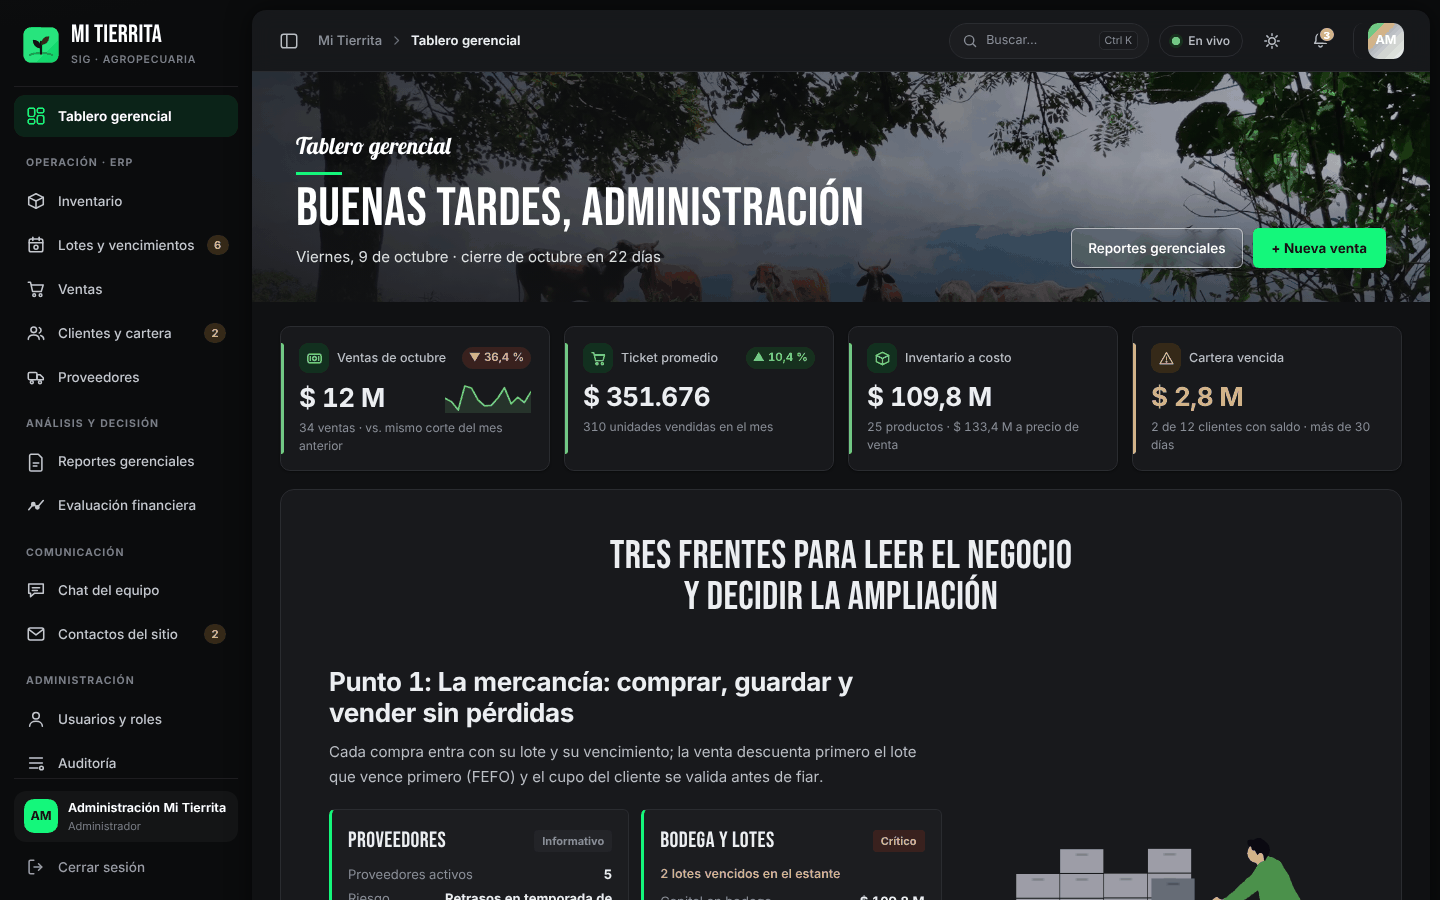
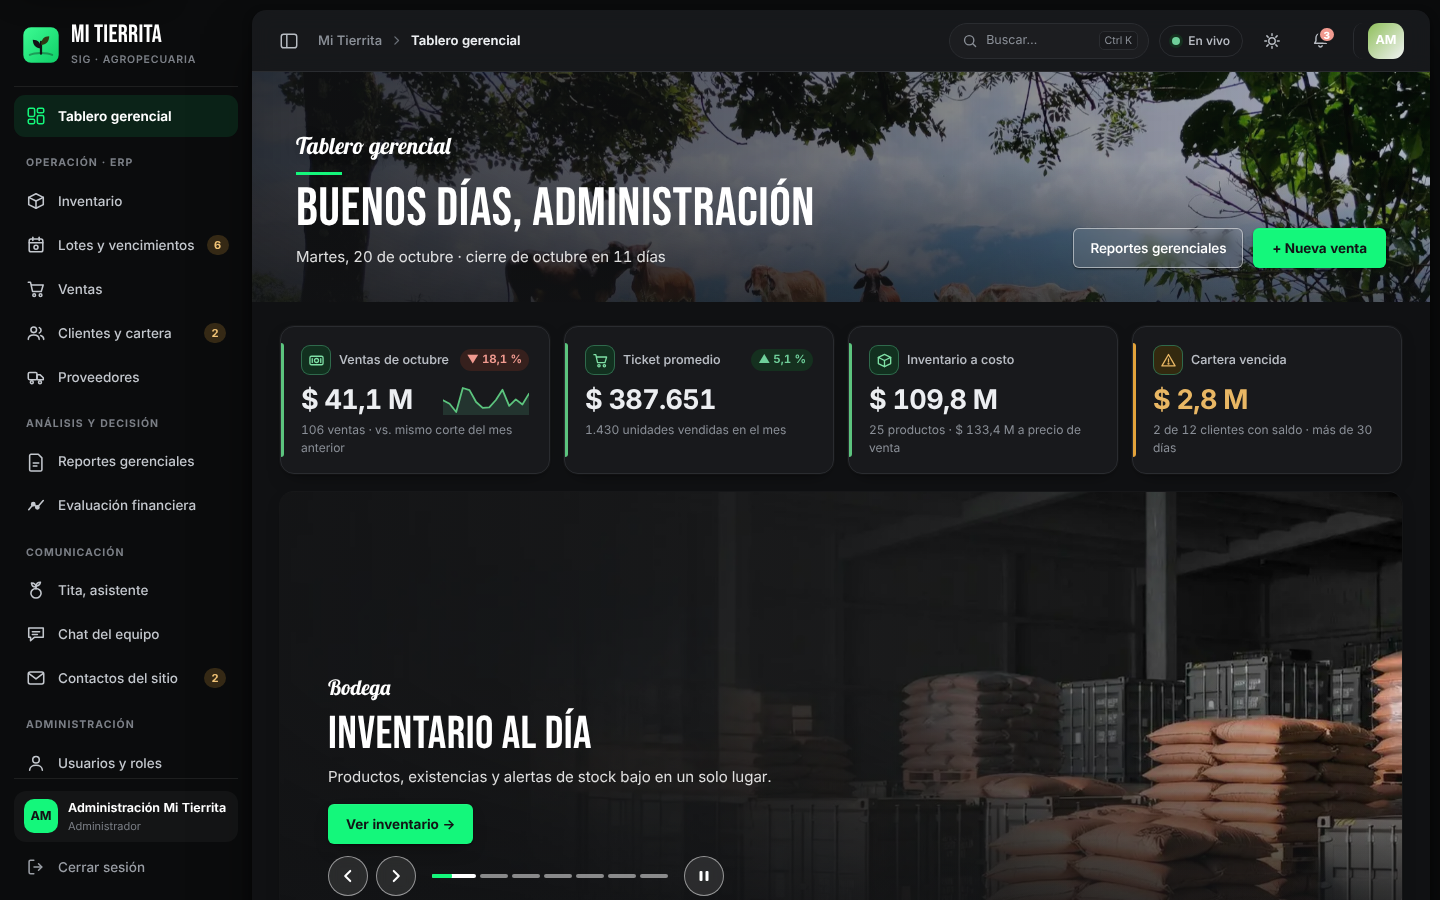
docs: README, manual, CLAUDE.md y capturas regenerados con la v4.5

diff --git a/docs/MANUAL-USUARIO.md b/docs/MANUAL-USUARIO.md
@@ -1,15 +1,19 @@
 # Manual de usuario · Mi Tierrita SIG (guía rápida)
 
-> Versión completa por rol, con más capturas: `entregables/Compartidos/Manual_de_usuario_MiTierrita.pdf` en la carpeta
-> del proyecto. Las cuentas las entrega el administrador; la pantalla de ingreso ya no muestra atajos de demostración.
+> Guía rápida de la versión **v4.5** (capturas del 20/10/2026, con datos de demostración simulados). La versión completa
+> por rol está en Figma (página 04, manuales por rol en escritorio y móvil). Las cuentas las entrega el administrador;
+> la pantalla de ingreso no muestra atajos de demostración.
 
 ## 1. La página pública
 
-Quien abre el sitio sin sesión ve la página de la tienda: portada, ¿Qué es?, tres frentes, catálogo, quiénes somos,
-contacto y pie con boletín. El formulario de **Contacto** llega al instante a la campana del administrador
-(máximo 5 mensajes por hora desde la misma conexión). **Ingresar al sistema** lleva al inicio de sesión.
+Quien abre el sitio sin sesión ve la página de la tienda. Su barra tiene **Catálogo**, **El sistema**, **Tita**,
+**Visítenos**, **Proyecto** y **Contacto**, y el botón **Ingresar al sistema** lleva al inicio de sesión. En **Contacto**
+escriba su nombre, un **teléfono o WhatsApp** o un correo (basta uno), el tema y el mensaje: llega al instante a la
+campana del administrador (máximo 5 mensajes por hora desde la misma conexión).
 
 ![Página pública](capturas/00-pagina-inicio.png)
+
+![Catálogo](capturas/00b-pagina-catalogo.png)
 
 ![Contacto](capturas/25-pagina-contacto.png)
 
@@ -22,12 +26,14 @@ Escriba su usuario y contraseña y pulse **Entrar al sistema**. Después de 10 i
 
 ## 3. La pantalla principal
 
-- **Menú lateral:** *Operación · ERP*, *Análisis y decisión*, *Comunicación* (chat y contactos del sitio) y
-  *Administración*. Solo aparece lo que su rol puede usar; los números son pendientes.
-- **Barra superior:** **Buscar… Ctrl K**, el estado de conexión, tema claro/oscuro, la **campana** y sus iniciales
+- **Menú lateral:** *Operación · ERP*, *Análisis y decisión*, *Comunicación* (**Tita**, chat del equipo y contactos del
+  sitio) y *Administración*. Solo aparece lo que su rol puede usar; los números son pendientes.
+- **Barra superior:** **Buscar… Ctrl K**, el estado de conexión, el botón de tema, la **campana** y sus iniciales
   (abren **Mi perfil**).
-- Cada rol tiene su inicio: el administrador lee los **tres frentes**; la secretaria, sus ventas del día; bodega,
-  **qué hacer hoy**.
+- Cada rol tiene su inicio, con un carrusel de accesos a sus módulos: el administrador ve ventas del mes, ticket
+  promedio, inventario a costo, cartera vencida, la tendencia de 13 semanas, los productos más vendidos y el capital
+  en bodega; la secretaria, lo vendido hoy (contado y crédito), clientes con saldo y sus pendientes; bodega, **qué hacer
+  hoy** y los lotes próximos a vencer.
 
 ![Tablero](capturas/02-tablero.png)
 
@@ -41,7 +47,9 @@ Escriba su usuario y contraseña y pulse **Entrar al sistema**. Después de 10 i
 |---|---|
 | ● En vivo | Todo funciona; los mensajes y los cambios de los demás llegan al instante |
 | ● Sincronizando… | Está trayendo datos |
+| ● Conectando… | Está abriendo la conexión en tiempo real |
 | ● Reconectando… | Se perdió la conexión; reintenta sola. Al volver aparece «Conexión restablecida» y la pantalla se recarga |
+| ● Sin tiempo real | No se pudo abrir el socket; la aplicación sigue funcionando por consulta normal |
 
 ## 4. Buscar
 
@@ -53,13 +61,29 @@ proveedores y personas. Flechas para moverse, **Enter** para abrir; una persona 
 ## 5. Chat del equipo
 
 - **#general** para todos y **mensajes privados** (botón **+ Privado**, o clic en la persona en el panel *Equipo*).
-- **Enter** envía, **Shift + Enter** hace salto de línea. Verá «… está escribiendo», quién está en línea y la última
-  conexión de los demás; en los privados, **Enviado** y luego **✓✓ Leído**.
+- **Enter** envía, **Shift + Enter** hace salto de línea; **@** menciona a una persona y le llega un aviso. Verá
+  «… está escribiendo», quién está en línea y la última conexión de los demás.
+- **Chulitos** en sus mensajes: reloj (enviando) → ✓ enviado → ✓✓ entregado → ✓✓ azul visto. Pulse los chulitos para
+  ver **quién lo recibió, quién lo vio y quién sigue pendiente** (solo el autor ve ese detalle).
+- Sobre cada mensaje: **citar**, abrir el **hilo**, **responder en privado** sin publicar en el grupo y **fijar**
+  (en #general solo fija el administrador; en un privado, cualquiera de los dos).
+- Adjunte archivos de hasta 6 MB con el clip o grabe una **nota de voz** con el micrófono. La lupa busca solo entre los
+  mensajes que usted puede ver.
 - Si lee mensajes antiguos y llegan nuevos, aparece **↓ N mensajes nuevos**. La pestaña muestra «(n)» con lo pendiente.
 
 ![Chat general](capturas/10-chat-general.png)
 
 ![Chat privado](capturas/10b-chat-privado.png)
+
+![Detalle de recibos](capturas/10c-chat-recibos.png)
+
+## 5b. Tita, la asistente
+
+**Tita** (menú *Comunicación*) responde con los datos del sistema que **su cuenta** puede ver: un resumen del día,
+preguntas sobre ventas, lotes o cartera, y **borradores** de venta, abono o compra (y lectura de una factura de
+compra, para administrador y bodega). Tita **propone y usted confirma**: nada se guarda hasta que lo confirma en la
+pantalla de cada módulo, y la auditoría lo marca como sugerido por IA. Si el servidor no tiene configurada la IA,
+Tita avisa «no está disponible» y el resto del sistema funciona igual.
 
 ## 6. Notificaciones
 
@@ -89,8 +113,10 @@ propio aviso.
 ## 8. Administración y decisión
 
 - **Evaluación financiera:** panel de decisión con el veredicto, estudio del proyecto, supuestos, escenarios y flujo.
-- **Reportes:** elija el reporte, ajuste los filtros y pulse **PDF** (indicadores, gráficos y detalle) o **Excel**
-  (hojas formateadas). El documento dice quién lo generó y a qué hora. Abajo, **Historial de reportes generados**
+- **Reportes:** elija el reporte, ajuste los filtros y pulse **PDF** (resumen ejecutivo, indicadores, gráficos con
+  unidad, detalle y hallazgos) o **Excel** (hojas con totales por fórmula). Se abre una **vista previa** con
+  **Guardar como…**, **Descargar** y **Cerrar**. El documento dice quién lo generó y a qué hora; «N/D» significa dato no
+  disponible y «N/A» no aplica. Abajo, **Historial de reportes generados**
   muestra cada descarga; la secretaria ve solo las suyas. En **Evaluación financiera** los mismos botones descargan
   el escenario elegido (VPN, TIR, flujo y tornado).
 - **Contactos del sitio:** responda por correo y pulse **Marcar atendido**.
@@ -98,6 +124,8 @@ propio aviso.
   borrados, **reportes generados** e **inicios de sesión**; la columna de detalle dice qué reporte y con qué filtros.
 
 ![Reportes](capturas/09-reportes.png)
+
+![Reporte de ventas en PDF](capturas/22-reporte-ventas-pdf.png)
 
 ![Auditoría de reportes](capturas/20-auditoria-reportes.png)
 
@@ -116,11 +144,15 @@ que ha hecho en 30 días. A la derecha, cinco pestañas:
 | Seguridad | Cambio de contraseña con requisitos a la vista y **Cerrar sesión en todos los dispositivos** |
 | Mi actividad | Ventas, abonos, lotes y reportes de los últimos 30 días y la lista de sus últimas acciones |
 | Mi rol | Lo que puede hacer y a qué no tiene acceso |
-| Preferencias | Claro, oscuro o según el sistema |
+| Preferencias | Claro, oscuro o **según el sistema** (sigue al dispositivo en vivo); se guarda en este navegador |
 
 ![Perfil](capturas/17-perfil.png)
 
 ![Mi actividad](capturas/17b-perfil-actividad.png)
+
+![Seguridad](capturas/17c-perfil-seguridad.png)
+
+![Preferencias](capturas/23-preferencias-tema.png)
 
 ![Oscuro](capturas/11-oscuro.png)
 

diff --git a/README.md b/README.md
@@ -68,10 +68,11 @@ los tres niveles de un sistema de información gerencial:
 
 La interfaz no calcula nada importante: totales, saldos e indicadores llegan ya calculados desde la API.
 
-Desde la v4 tiene además una **página pública de inicio** (portada, ¿qué es?, tres frentes, catálogo, quiénes somos,
-contacto y pie con boletín) y funciona **en tiempo real** con Socket.io: chat del equipo con canal general y
-privados, notificaciones del negocio en una campana, presencia en línea y pantallas que se actualizan solas cuando
-otro usuario vende, abona o registra un lote.
+Desde la v4 tiene además una **página pública de inicio** (catálogo, el sistema, Tita, visítenos, proyecto y contacto)
+y funciona **en tiempo real** con Socket.io: chat del equipo con canal general y privados, notificaciones del negocio
+en una campana, presencia en línea y pantallas que se actualizan solas cuando otro usuario vende, abona o registra un
+lote. La v4.5 suma el **chat avanzado** (chulitos por persona, citas, hilos, fijados, menciones, adjuntos y voz), el
+**tema claro, oscuro o del sistema** y **Tita**, una asistente con IA opcional que propone y la persona confirma.
 
 ---
 
@@ -81,7 +82,7 @@ otro usuario vende, abona o registra un lote.
 
 El navegador descarga la aplicación una vez y luego solo intercambia **datos** JSON con la API. React Router cambia
 de pantalla sin recargar y cada módulo se descarga solo cuando se abre (división por ruta), lo que mantiene la carga
-inicial en ≈ 195 kB comprimidos (incluido el cliente de Socket.io); la página pública se descarga aparte.
+inicial liviana (el archivo de entrada pesa ≈ 98 kB comprimidos y el resto llega por fragmentos); la página pública se descarga aparte.
 
 ### Cadena de datos en un solo sentido
 
@@ -299,22 +300,24 @@ mi-tierrita-app/
 │   ├── main.tsx · App.tsx           entrada, proveedores, MotionConfig y LazyMotion
 │   ├── router/                      rutas perezosas, mapa de pantallas por rol, guardas
 │   ├── screens/                     una carpeta por pantalla (Landing, Signin, Home, Inventory, Batches, Sales,
-│   │                                Customers, Suppliers, Finance, Reports, Users, Audits, Chat, Profile,
-│   │                                Contacts, Restricted)
+│   │                                Customers, Suppliers, Finance, Reports, Users, Audits, Chat, Tita,
+│   │                                Profile, Contacts, Restricted)
 │   ├── realtime/                    socket.ts (almacén, useSocketEvent) · RealtimeBridge.tsx
 │   ├── hooks/<entidad>/             un hook por operación
 │   ├── services/                    un archivo por recurso de la API
-│   ├── stores/                      session · theme · toasts · ui
+│   ├── stores/                      session · theme · toasts · ui · ai
 │   ├── components/
 │   │   ├── ui/                      sistema de diseño
 │   │   ├── charts/                  gráficos SVG
 │   │   ├── layout/                  AppShell, menú, barra superior, campana, búsqueda, estado de conexión
-│   │   ├── chat/                    lista de mensajes, compositor, panel del equipo, avatar
+│   │   ├── chat/                    mensajes, compositor, hilos, fijados, búsqueda, recibos, chulitos, adjuntos
+│   │   ├── ai/                      Tita: conversación, panel flotante, borradores y avatar
+│   │   ├── exports/                 botones PDF/Excel y vista previa con «Guardar como…»
 │   │   └── system/                  ErrorBoundary
-│   ├── lib/                         cliente HTTP, errores, formato de números y fechas
+│   ├── lib/                         cliente HTTP, errores, formato, descargas, adjuntos y textos de actividad
 │   ├── styles/                      tema claro/oscuro y base
 │   └── __tests__/                   32 pruebas
-├── public/img/                      fotografías de las portadas (.webp) y CREDITOS.txt
+├── public/img/ · public/media/      fotografías de las portadas (.webp) y de la página pública; créditos en CREDITOS.txt y LEEME.txt
 ├── src/assets/ill/                  ilustraciones planas (.svg)
 ├── docs/capturas/                   capturas de escritorio, celular y modo oscuro
 ├── Dockerfile · nginx.conf          imagen alternativa con Nginx
@@ -512,6 +515,8 @@ Después agregue la URL del sitio a `CORS_ORIGINS` de la API. Guía completa (ba
 
 ## Capturas
 
+*Capturas del 20/10/2026 con la versión v4.5 y datos de demostración simulados.*
+
 **Página pública de inicio**
 
 ![Página de inicio](docs/capturas/00-pagina-inicio.png)
@@ -519,7 +524,7 @@ Después agregue la URL del sitio a `CORS_ORIGINS` de la API. Guía completa (ba
 | Inicio de sesión | Tablero gerencial |
 |---|---|
 | ![Inicio](docs/capturas/01-inicio-sesion.png) | ![Tablero](docs/capturas/02-tablero.png) |
-| **Chat del equipo · #general** | **Chat privado con ✓✓ leído** |
+| **Chat del equipo · #general** | **Chat privado con chulitos** |
 | ![Chat](docs/capturas/10-chat-general.png) | ![Privado](docs/capturas/10b-chat-privado.png) |
 | **Notificaciones en vivo** | **Búsqueda global (Ctrl + K)** |
 | ![Campana](docs/capturas/15-notificaciones.png) | ![Búsqueda](docs/capturas/16-busqueda.png) |
@@ -531,6 +536,10 @@ Después agregue la URL del sitio a `CORS_ORIGINS` de la API. Guía completa (ba
 | ![Reportes](docs/capturas/09-reportes.png) | ![Perfil](docs/capturas/17-perfil.png) |
 | **Mi actividad** | **Auditoría de reportes** |
 | ![Actividad](docs/capturas/17b-perfil-actividad.png) | ![Auditoría](docs/capturas/20-auditoria-reportes.png) |
+| **Detalle de recibos (solo el autor)** | **Reporte de ventas en PDF** |
+| ![Recibos](docs/capturas/10c-chat-recibos.png) | ![PDF](docs/capturas/22-reporte-ventas-pdf.png) |
+| **Página pública · catálogo** | **Preferencias de tema** |
+| ![Catálogo](docs/capturas/00b-pagina-catalogo.png) | ![Tema](docs/capturas/23-preferencias-tema.png) |
 
 **Modo oscuro**
 

diff --git a/CLAUDE.md b/CLAUDE.md
@@ -13,7 +13,7 @@ CSS modules con variables de tema). Consume la API de `../mi-tierrita-api` (`VIT
 
 `pantalla → hook de la entidad → servicio HTTP → API`. Una pantalla nunca importa un servicio ni el cliente
 HTTP; solo usa hooks. Un hook por operación (`src/hooks/<entidad>/useX.ts`), un servicio por recurso
-(`src/services/<recurso>.ts`), tipos de la API en `src/types/api.ts`, estado global en `src/stores/`.
+(`src/services/<recurso>.ts`), tipos de la API en `src/types/api.ts`, estado global en `src/stores/` (`session`, `theme`, `toasts`, `ui`, `ai`). Los hooks de mutación comparten `useApiMutation` (`hooks/shared.ts`).
 
 ## Reglas de oro
 
@@ -42,8 +42,8 @@ HTTP; solo usa hooks. Un hook por operación (`src/hooks/<entidad>/useX.ts`), un
 8. **Un archivo por componente/pantalla** con función flecha exportada; sin clases; `camelCase` en
    TypeScript; textos de la interfaz en español.
 9. Formato de números y fechas siempre con `@/lib/format` (`money`, `moneyCompact`, `int`, `pct`,
-10. **Pulido visual (v4.3)**: toda la identidad vive en `theme.css`. Espacio con `--space-1..8`, texto con `--text-xs..xl`, elevación con `--elev-1..4` (`--shadow*` apuntan a ellas), foco con `--focus-ring`, movimiento con `--ease`, `--t-fast`, `--t-base`; texto y velos sobre fotografía con `--on-photo`, `--on-photo-2`, `--on-photo-line`, `--photo-veil*`, `--glass*`. Estados de todo control: normal, hover, foco (`--focus-ring`), activo, deshabilitado, carga (`loading`), error (`invalid`) y éxito (`valid`). No escribir `rgba()` ni hex sueltos en componentes: crear el token en `theme.css` (claro y oscuro).
    `num2`, `years`, `times`, `dateOnly`, `dateTime`).
+10. **Pulido visual (v4.3)**: toda la identidad vive en `theme.css`. Espacio con `--space-1..8`, texto con `--text-xs..xl`, elevación con `--elev-1..4` (`--shadow*` apuntan a ellas), foco con `--focus-ring`, movimiento con `--ease`, `--t-fast`, `--t-base`; texto y velos sobre fotografía con `--on-photo`, `--on-photo-2`, `--on-photo-line`, `--photo-veil*`, `--glass*`. Estados de todo control: normal, hover, foco (`--focus-ring`), activo, deshabilitado, carga (`loading`), error (`invalid`) y éxito (`valid`). No escribir `rgba()` ni hex sueltos en componentes: crear el token en `theme.css` (claro y oscuro).
 
 ## Kit disponible (`@/components/ui`)
 
@@ -69,7 +69,7 @@ Botones: `primary` 40px carbón (en la portada se vuelve verde lima), `secondary
 - Sin 3D: la autora pidió retirarlo. La identidad la dan las portadas fotográficas (Unsplash, créditos en
   `public/img/CREDITOS.txt`), los titulares Bebas, el acento Lobster y las ilustraciones planas recoloreadas
   (`#3F8F3A` y `#1D1E20` en lugar del morado original de unDraw).
-- Fotos nuevas: WebP ≤ 2000 px de ancho y calidad ~74; anotarlas en `CREDITOS.txt` y en `PHOTO_BY_ROUTE` de AppShell.
+- Fotos nuevas: WebP ≤ 2000 px de ancho y calidad ~74; anotarlas en `CREDITOS.txt` y en `PHOTOS_BY_ROUTE` de AppShell.
 
 ## Tiempo real y página pública (v4.1)
 
@@ -133,4 +133,3 @@ Las consultas son `useQuery` de TanStack (data, isPending, isError, error, refet
 
 - Asistente con IA opcional: pantalla `screens/Tita`, componentes en `components/ai`, hooks en `hooks/ai` (`useAiStatus`, `useAiChat`, `useAiDraft`, `useBriefing`, `useReadInvoice`, `useTitaConversation`, `useTitaVoice`) y estado en `stores/ai.ts`. Habla con `/ai/*` de la API; sin `ANTHROPIC_API_KEY` la API responde 660 y la app oculta la IA.
 - Tita propone y la persona confirma: nunca ejecuta una escritura por su cuenta; el borrador se confirma con el flujo normal y la API marca la auditoría con `ai_suggested`. Respeta el rol activo (no ofrecer herramientas que el rol no puede usar).
-- Página pública: es la de Matos (`screens/Landing`, `public/media`); sus colores son fijos y no se tocan con las reglas del tema.
